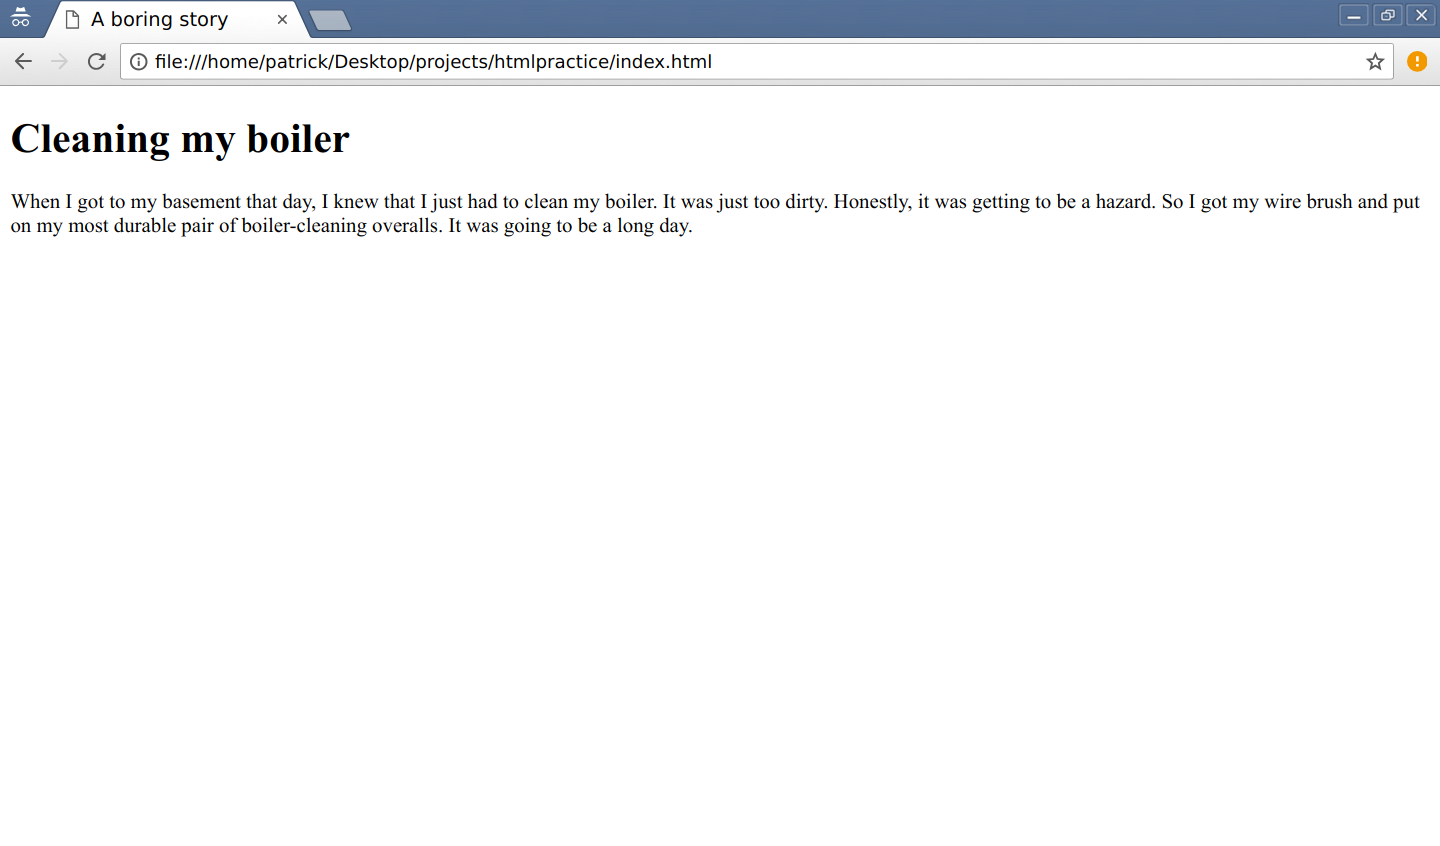
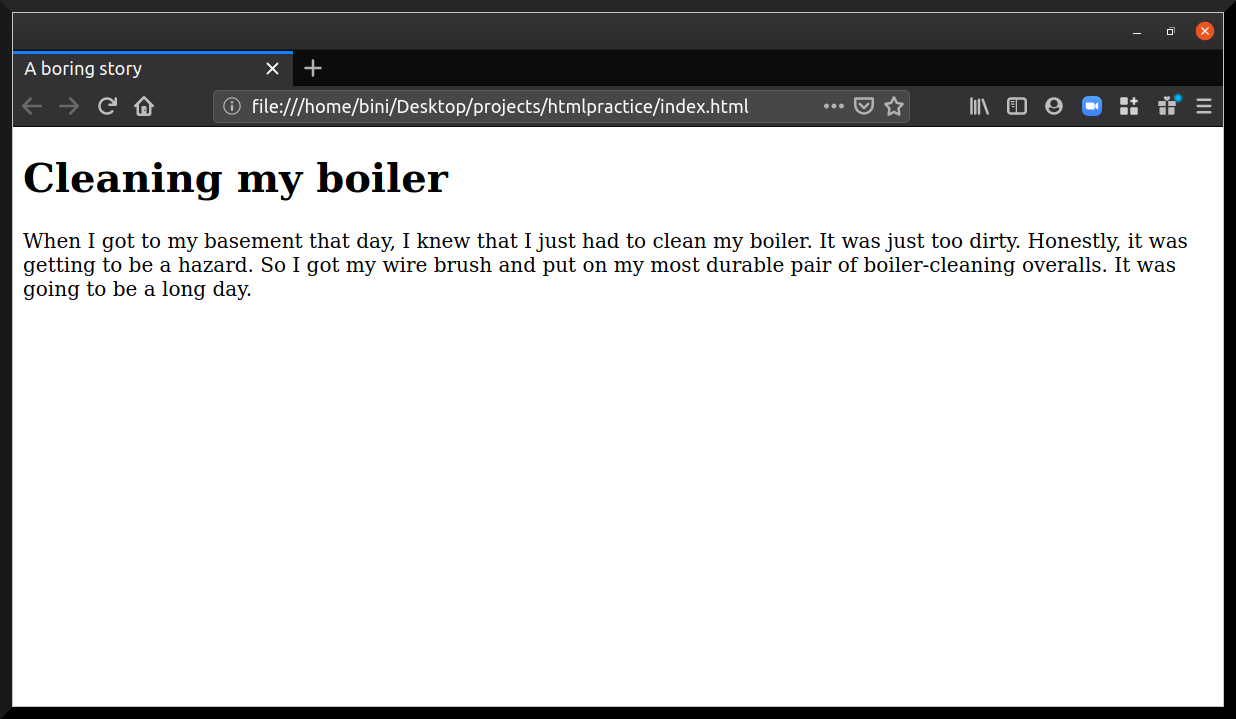
changed image so it is ubuntu firefox

Changed region(s): [[0.0, 0.0, 1.0, 1.0]]

diff --git a/_texts/3-html-css.md b/_texts/3-html-css.md
@@ -7,11 +7,11 @@ rights: Digital Research Institute (DRI) Curriculum by Graduate Center Digital I
 source: CUNY Graduate Center Digital Humanities Research Institute
 toc:
 - Introduction
-- Opening Activity
-- Basic Template for HTML
-- Setting Up Git
+- Example
+- Basic template for HTML
+- Setting up Git
 - Initializing a Git repository
-- Using Markdown
+- Using markdown
 - Staging and committing changes
 - Pushing to a remote repository
 ---
@@ -34,7 +34,7 @@ By the end of this workshop, participants will:
 
 Websites seem like these magical things that appear when we open our web browser (i.e. Chrome, Firefox, Safari). We know that websites are hypertext, meaning that we can click between links, traveling from page to page until we find what we need. What may be less obvious about websites is that, fundamentally **websites are plain text documents**, usually written in HTML or another web-based markup language, such as XML or XHTML.
 
-*Fun fact*: **Nearly 80% of all websites (whose markup language we know) use HTML.**
+*Fun fact*: Nearly 80% of all websites (whose markup language we know) use HTML.
 
 ## Hypertext Markup Language (HTML)
 
@@ -62,7 +62,7 @@ However, internet access is necessary if you plan on making your website availab
 
 ---
 
-# Opening Activity
+# Example
 
 1. Look at this screenshot of a webpage.
 
@@ -79,7 +79,7 @@ This is the underlying code of the page. This is the code that is used to make a
 In this session, we are going to learn how to read and write this code, and render it in the browser on your local computer.
 
 ---
-# Basic Template for HTML
+# Basic template for HTML
 
 Below is a basic template for an empty HTML Document.
 
@@ -116,8 +116,9 @@ Let's use the command line to create the new folder and file:
 
 1. Open your terminal.
 2. Navigate to your projects folder using this command: `cd ~/Desktop/projects`.
-3. Create a new folder: `mkdir htmlpractice`.
-4. Use your VS Code text editor to create a file called `index.html`: `code index.html`.
+3. Create a new folder: `mkdir htmlpractice`
+4. Go into your new folder by typing `cd htmlpractice`.
+4. Use your VS Code text editor to create a file called **index.html**. To create this file, type `code index.html`in your terminal. Your new file will open in the VS Code text editor.
 5. Paste the template above (starting with `<!DOCTYPE html>`) into the new file.
 
 The `index.html` file is your default homepage for the website we are creating. This is an industry standard, because web browsers tend to recognize the `index.html` page as the opening page to the directory that is your website.
@@ -140,7 +141,7 @@ No content renders on the page, because there is no content in the template at t
 
 ---
 
-# Tags and Elements
+# Tags and elements
 
 Tags and elements are the structuring components of html webpages.
 
@@ -181,7 +182,7 @@ If you look back at the basic template in your `index.html` file, you'll see tha
 
 ---
 
-# Paragraphs and Headings
+# Paragraphs and headings
 
 Paragraphs and headings are the main textual elements of the body of your webpages. Because these contain content that you want to organize and display on your webpage, these are entered in the body element.
 
@@ -237,7 +238,7 @@ Links are the foundation of the World Wide Web, and thus are an important compon
 
 The `<a>` tag, or **anchor tag**, creates a link to another document. You can use the `<a>` tag to link to other documents or webpages you created for the same site or to documents located elsewhere on the web.
 
-## Option One: Relative Links
+## Option one: relative links
 
 Relative links take the current page as an origin point and search for other files within the same folder or directory. This method is useful for creating links to pages within your own site.
 
@@ -277,9 +278,9 @@ The `<a>` tag, or anchor tag, creates a link. The text within the `<a>` and `</a
 
 There is another technical difference between the two options above.
 
-## Relative vs. Absolute Links: When to use which
+## Relative vs. absolute Links: when to use which
 
-Use relative links when referring to pages on your own site. The main advantage of using relative links to pages on your site is that your site will not break if it is moved to a different folder or environment.
+In general, you should always use relative links when referring to pages on your own site. The main advantage of using relative links to pages on your site is that your site will not break if it is moved to a different folder or environment.
 
 ## Activity
 
